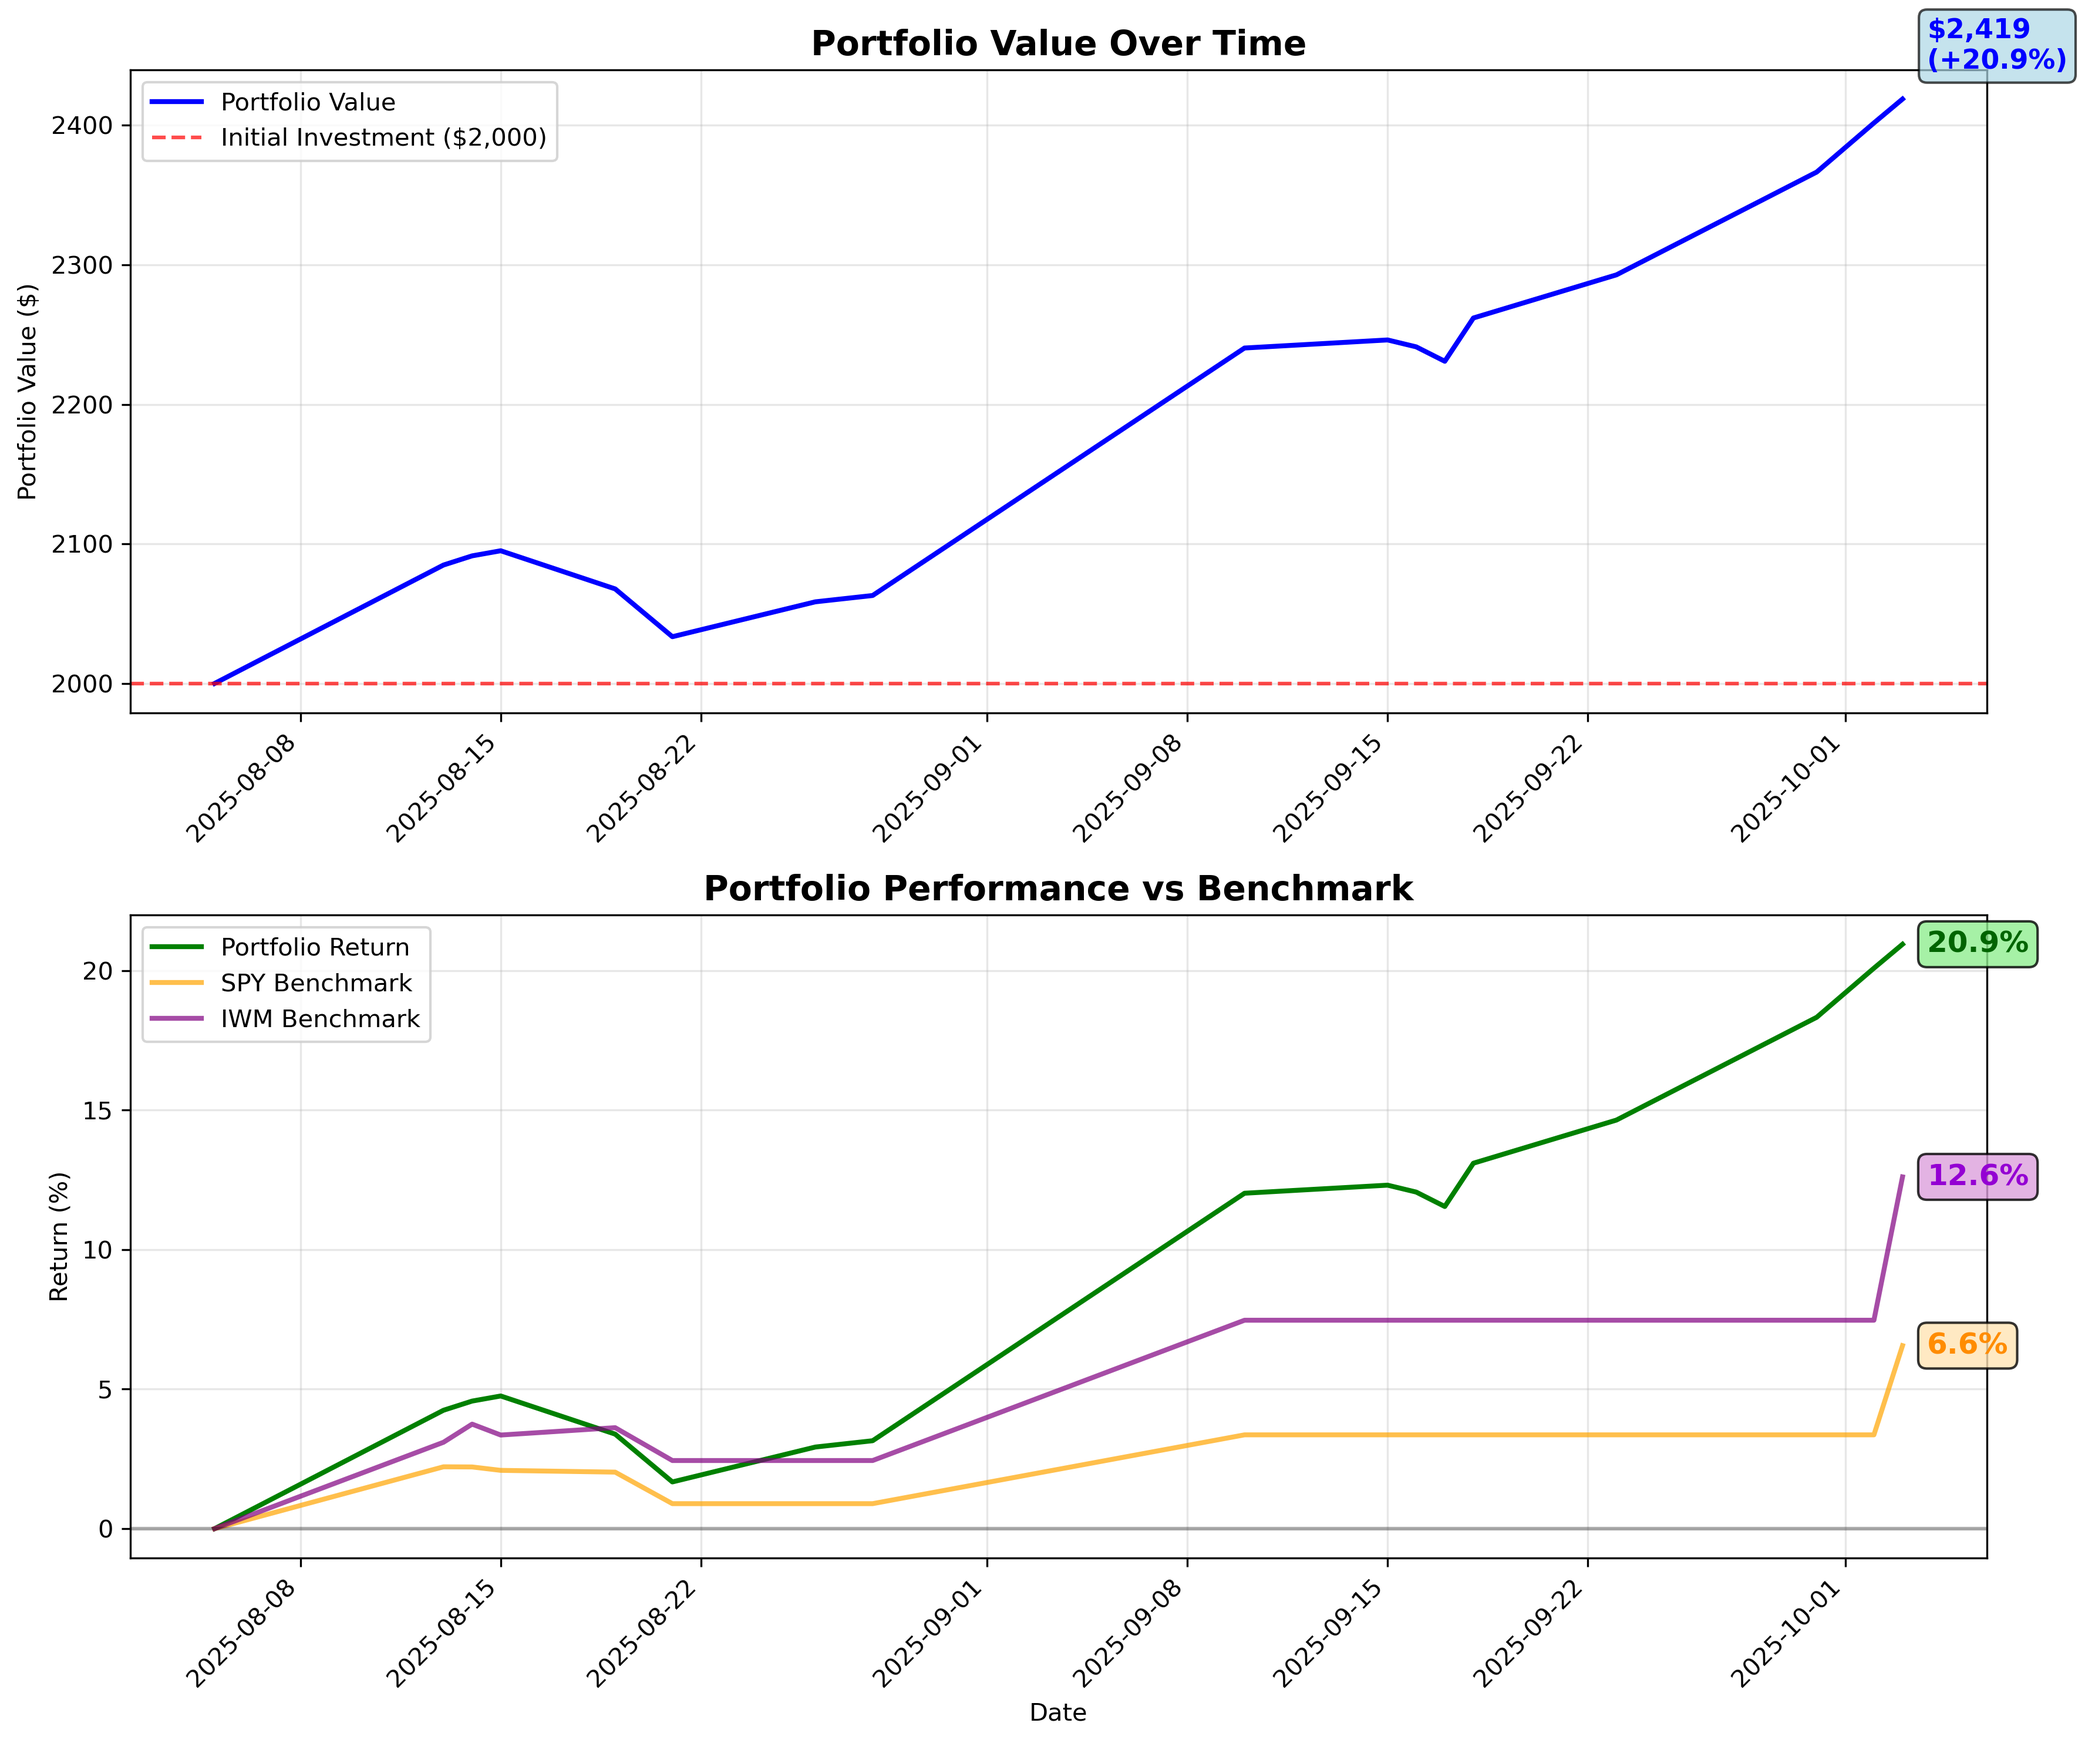
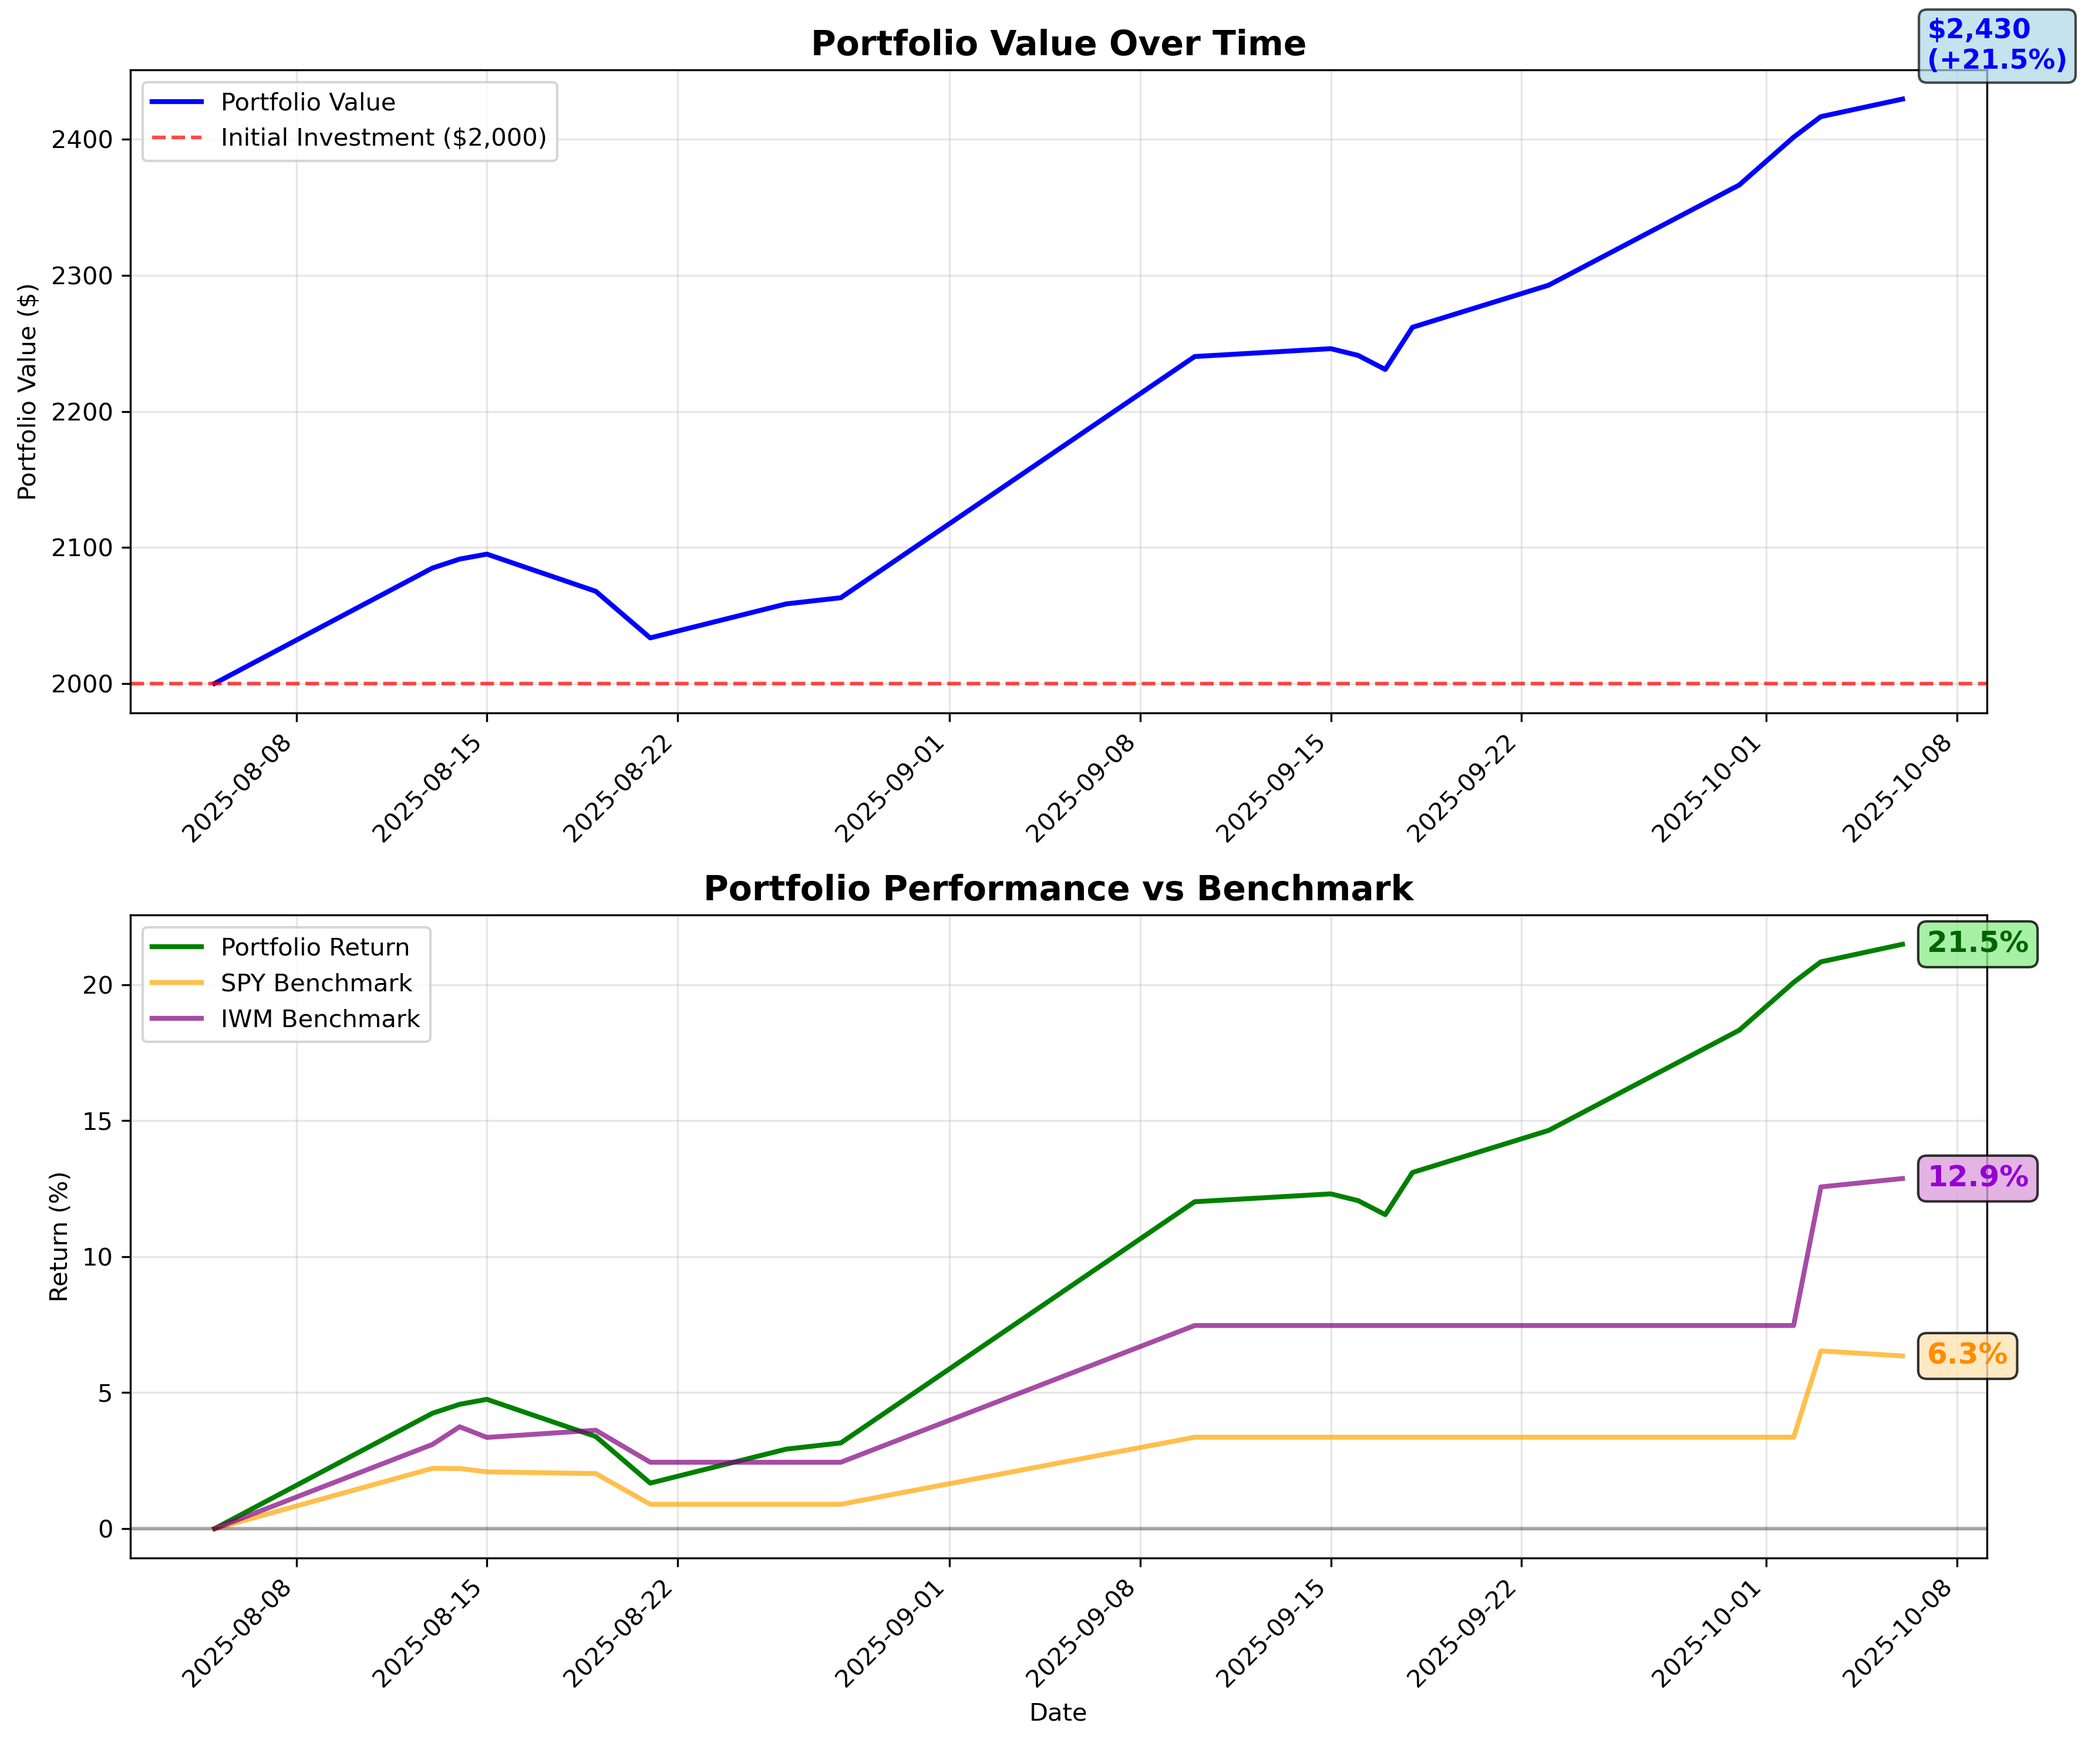
Fresh Run

diff --git a/Trading/LLM Managed Portfolio/trading_recommendations/trading_recommendations_20251003.md b/Trading/LLM Managed Portfolio/trading_recommendations/trading_recommendations_20251003.md
@@ -1,0 +1,83 @@
+# 🤖 LLM Trading Recommendations
+
+---
+
+## 📅 DOCUMENT HEADER
+*Date: 2025-10-03*  
+*Market Conditions: VIX at 16.28-16.66, indicating moderate volatility with markets managing gains despite government shutdown concerns*  
+*Portfolio Performance: +20.94% vs SPY +6.6%, IWM +12.6% - outperforming benchmarks by 14.3% and 8.3% respectively*  
+
+---
+
+## 🛡 RISK MANAGEMENT UPDATES
+
+### ⚙ Dynamic Risk Parameters
+**SET STOP-LOSS IONS -15%** - Protect substantial 63.6% gains amid high valuation after strong run  
+**UPDATE PROFIT-TARGET NVDA +30%** - AI dominance justifies higher targets with Blackwell architecture catalyst  
+**MAX-POSITION-SIZE 20%** - Maintain concentration limits to manage portfolio risk  
+**CASH-RESERVE 10%** - Reduce from current 33.4% to deploy capital while maintaining liquidity buffer  
+**RISK-BUDGET MODERATE-AGGRESSIVE** - Market conditions support calculated risk-taking with VIX below 17  
+
+### 🎯 Position-Specific Risk Adjustments
+**SET STOP-LOSS RKLB -20%** - Higher volatility tolerance for space technology growth play  
+**UPDATE PROFIT-TARGET IONS +80%** - Multiple FDA approvals and product launches expected through 2025-2026  
+
+---
+
+## 📋 ORDERS SECTION
+
+### 🔥 IMMEDIATE EXECUTION (HIGH PRIORITY)
+
+**SELL 2 shares of IONS** - Stock up 85.64% over past six months trading near 52-week highs, appearing above fair value per InvestingPro analysis; take partial profits on 63.6% gain while maintaining exposure to upcoming catalysts
+
+**BUY 3 shares of NVDA** - Data center revenues surged 93% YoY to $35.58B in Q4 fiscal 2025, Blackwell architecture delivering 25x token throughput improvement driving next AI adoption wave; position underweight by 9.2% needs rebalancing
+
+**BUY 5 shares of IONQ** - Trapped-ion quantum computing leader with 99.999% one-qubit gate fidelity, partnerships with Microsoft, Amazon AWS, and Google Cloud positioning for commercial breakthrough
+
+### ⚖ POSITION MANAGEMENT (MEDIUM PRIORITY)
+
+**BUY 2 shares of XLV** - Healthcare sector position underweight by 7.0%, increase allocation to defensive quality amid market uncertainty
+
+**HOLD all 3 shares of MRVL** - Strong 22.6% gain with semiconductor recovery momentum continuing
+
+**HOLD all 2 shares of RKLB** - Neutron rocket test flight scheduled before year-end as critical catalyst for competing with SpaceX, largest-ever 10-launch Synspective contract validates business model
+
+**BUY 3 shares of MSFT** - Azure cloud services grew 39% with Intelligent Cloud segment at $29.9B revenue, quantum computing Majorana 1 breakthrough positions for next tech frontier
+
+### 📈 STRATEGIC POSITIONING (LOW PRIORITY)
+
+**BUY 2 shares of RGTI** - 99.5% 2-qubit gate fidelity achieved with 100-qubit system coming end of 2025, $5.8M Air Force contract validates technology
+
+**SET STOP-LOSS CRNX -15%** - Protect 10.3% gain on recent biotech addition
+
+**UPDATE PROFIT-TARGET GOOGL +40%** - Strong 27.4% gain with AI capabilities expansion to 180 countries
+
+## MARKET ANALYSIS & RATIONALE
+
+### Current Market Environment
+Financial market volatility elevated in 2025 with VIX expected to decline moderately to 17-18 median level. Trade tensions and tariff concerns creating sector rotation opportunities while Fed rate policy remains accommodative. Technology sector facing uncertainty but AI demand remains robust driver.
+
+### Catalyst Calendar
+- IONS: Donidalorsen HAE approval expected, Phase 3 CORE/CORE2 sHTG data September 2025, Innovation Day October 7
+- NVDA: GTC event late October for product roadmap updates
+- RKLB: Neutron test flight Q4 2025
+- Quantum sector: 2026-2027 commercial viability timeline approaching
+
+### Risk Assessment
+Portfolio concentration acceptable with largest position (NVDA) at 15.6%. Cash level excessive at 33.4% - deployment opportunity. Semiconductor sector showing extreme dispersion with AI winners vs traditional chips.
+
+### Performance Attribution
+Strong outperformance driven by IONS biotech gains (+63.6%), GOOGL AI positioning (+27.4%), MRVL semiconductor recovery (+22.6%). Cash drag on returns needs addressing.
+
+## STRATEGIC ALLOCATION TARGETS
+
+### Target Portfolio Composition
+- **Growth/Momentum**: 45% (NVDA, IONQ, RGTI)
+- **Value/Cyclical**: 15% (XLV, MSFT defensive growth)
+- **Defensive/Quality**: 20% (GOOGL, MSFT, XLV)
+- **Speculative/Catalyst**: 10% (RKLB, CRNX, quantum plays)
+- **Cash Reserve**: 10%
+
+### Sector Allocation Targets
+- **Technology**: 40% (increased AI/quantum exposure)
+- **Healthcare/Biotech

diff --git a/Trading/LLM Managed Portfolio/daily_portfolio_analysis.md b/Trading/LLM Managed Portfolio/daily_portfolio_analysis.md
@@ -1,74 +1,74 @@
-# Daily Portfolio Analysis - 2025-10-03
+# Daily Portfolio Analysis - 2025-10-06
 
 ## Executive Summary
-- **Total Portfolio Value**: $2,418.79
-- **Total P&L**: $+418.79 (+20.94%)
+- **Total Portfolio Value**: $2,429.69
+- **Total P&L**: $+429.69 (+21.48%)
 - **Cash Position**: $723.87
 - **Active Positions**: 7
 
 ## Benchmark Comparison
-- **Portfolio Return**: +20.9%
-- **SPY Benchmark**: +6.6%
-- **IWM Benchmark**: +12.6%
+- **Portfolio Return**: +21.5%
+- **SPY Benchmark**: +6.3%
+- **IWM Benchmark**: +12.9%
 
 ## Position Analysis
 ### IONS
 - Shares: 3
-- Current Price: $68.81
-- P&L: $+80.22 (+63.55%)
+- Current Price: $69.06
+- P&L: $+80.96 (+64.14%)
 - Portfolio Weight: 8.5%
 - Weight Drift: -0.2%
 
 ### NVDA
 - Shares: 2
-- Current Price: $188.13
-- P&L: $+18.11 (+5.06%)
-- Portfolio Weight: 15.6%
-- Weight Drift: -9.2%
+- Current Price: $185.66
+- P&L: $+13.16 (+3.67%)
+- Portfolio Weight: 15.3%
+- Weight Drift: -9.5%
 
 ### GOOGL
 - Shares: 1
-- Current Price: $245.91
-- P&L: $+52.91 (+27.41%)
-- Portfolio Weight: 10.2%
+- Current Price: $245.89
+- P&L: $+52.89 (+27.40%)
+- Portfolio Weight: 10.1%
 - Weight Drift: -3.2%
 
 ### XLV
 - Shares: 2
-- Current Price: $145.19
-- P&L: $+16.48 (+6.02%)
-- Portfolio Weight: 12.0%
-- Weight Drift: -7.0%
+- Current Price: $144.60
+- P&L: $+15.30 (+5.59%)
+- Portfolio Weight: 11.9%
+- Weight Drift: -7.1%
 
 ### CRNX
 - Shares: 5
-- Current Price: $41.10
-- P&L: $+19.19 (+10.30%)
-- Portfolio Weight: 8.5%
-- Weight Drift: -4.4%
+- Current Price: $41.94
+- P&L: $+23.38 (+12.55%)
+- Portfolio Weight: 8.6%
+- Weight Drift: -4.3%
 
 ### MRVL
 - Shares: 3
-- Current Price: $86.65
-- P&L: $+47.93 (+22.60%)
-- Portfolio Weight: 10.7%
-- Weight Drift: -3.9%
+- Current Price: $89.08
+- P&L: $+55.22 (+26.04%)
+- Portfolio Weight: 11.0%
+- Weight Drift: -3.7%
 
 ### RKLB
 - Shares: 2
-- Current Price: $55.23
-- P&L: $+15.16 (+15.91%)
-- Portfolio Weight: 4.6%
-- Weight Drift: -2.0%
+- Current Price: $57.64
+- P&L: $+19.98 (+20.97%)
+- Portfolio Weight: 4.7%
+- Weight Drift: -1.9%
 
 ## Alerts & Recommendations
-- **HIGH**: IONS up +63.6% - consider taking profits
-- **MEDIUM**: NVDA underweight by 9.2% - consider rebalancing
-- **MEDIUM**: XLV underweight by 7.0% - consider rebalancing
+- **HIGH**: IONS up +64.1% - consider taking profits
+- **MEDIUM**: NVDA underweight by 9.5% - consider rebalancing
+- **MEDIUM**: XLV underweight by 7.1% - consider rebalancing
 - **MEDIUM**: High cash level (33.4%) - consider deploying capital
 
 ## Recent Performance Trend
 *Historical performance data will be populated as data accumulates*
 
 ---
-*Generated: 2025-10-03 12:38:36*
+*Generated: 2025-10-06 11:20:20*
